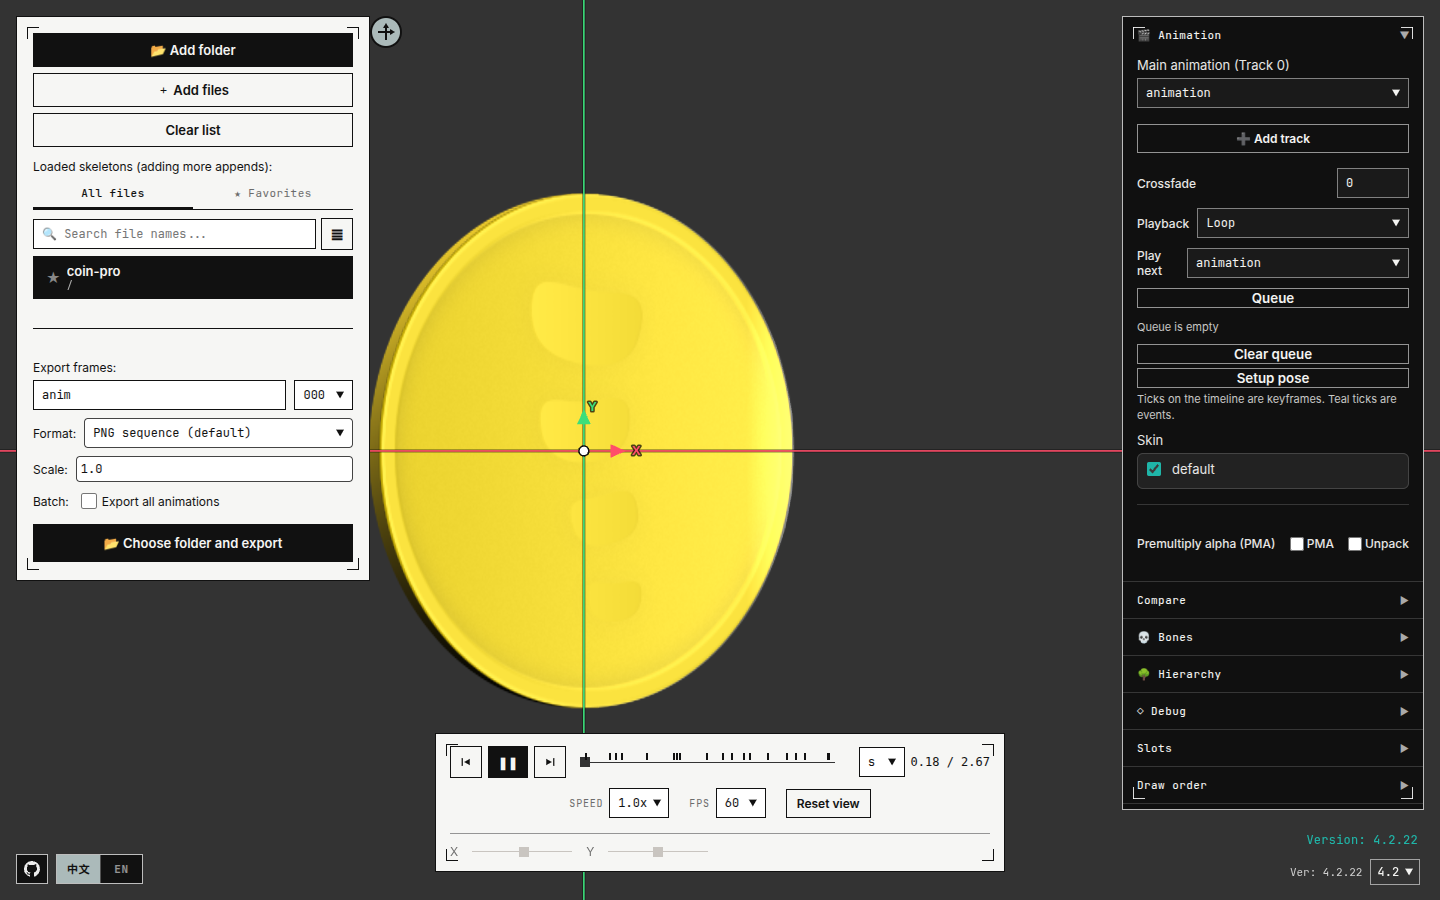
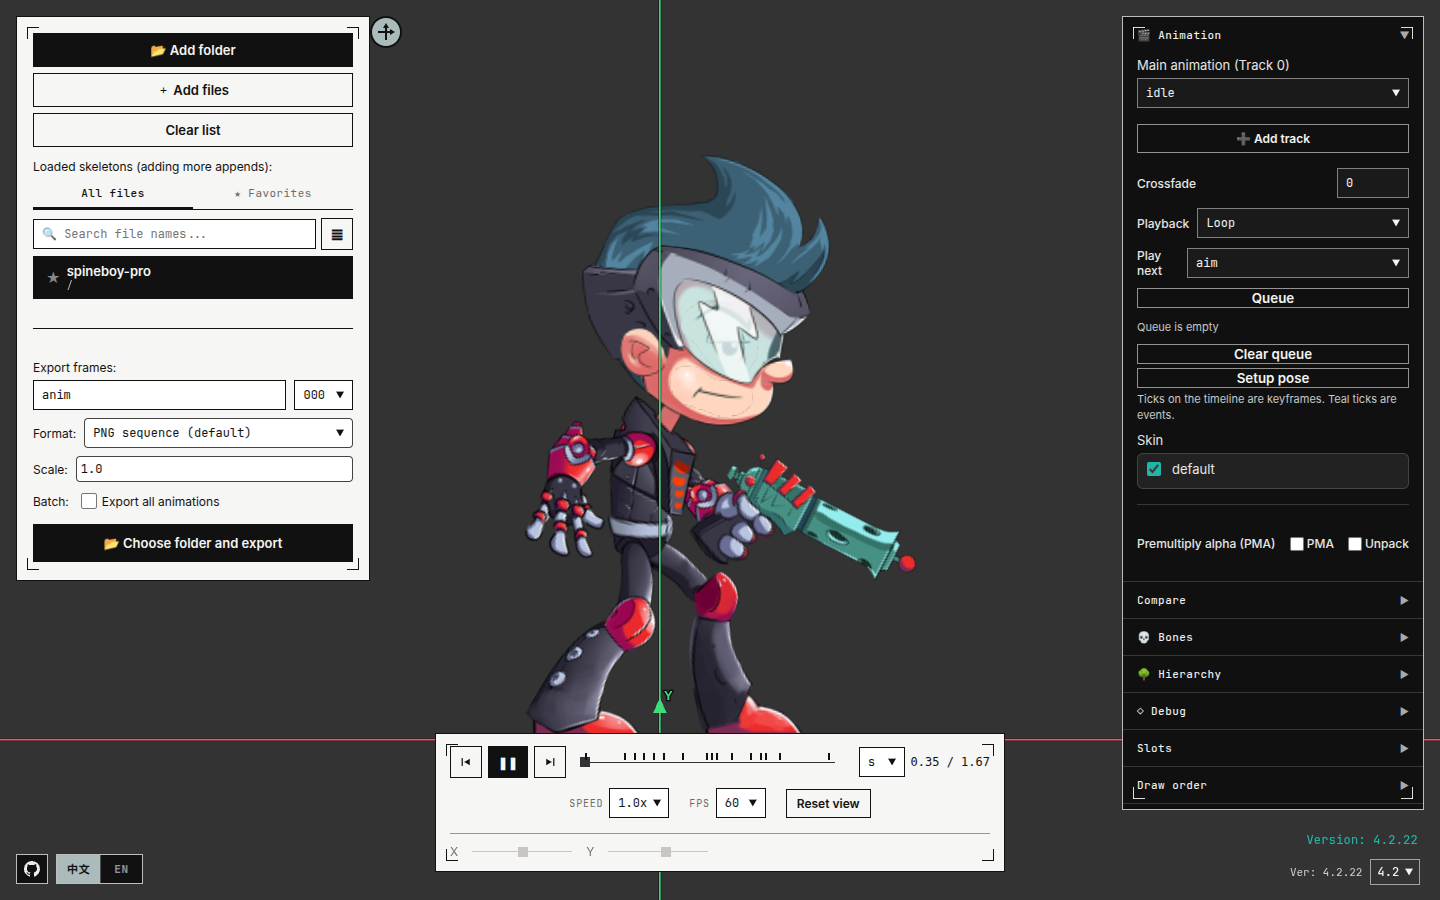
Replace README demo screenshots with spineboy (#21)
The coin sample read as a plain yellow disc. Use the official spineboy idle pose for the same home, main, and hierarchy views in each language.

diff --git a/README.en.md b/README.en.md
@@ -11,7 +11,7 @@ The runtimes are not the old `spine-webgl-*.js` files dropped in from a previous
 
 ## Interface preview
 
-The page as it looks locally, with the English UI. The skeleton on the stage is the official Spine coin example. **中文 | EN** at the bottom-left switches the language. The Chinese UI is in [README.md](./README.md).
+The page as it looks locally, with the English UI. The skeleton on the stage is the official Spine character spineboy, playing idle. **中文 | EN** at the bottom-left switches the language. The Chinese UI is in [README.md](./README.md).
 
 **Start page.** Click “Open animation folder” and choose the directory that contains the skeleton, atlas, and textures.
 

diff --git a/README.md b/README.md
@@ -11,7 +11,7 @@
 
 ## 界面预览
 
-下面是本地打开后的中文界面（默认语言）。画面里的骨架是 Spine 官方示例 coin。左下角的 **中文 | EN** 可切到英文，对应截图在 [README.en.md](./README.en.md)。
+下面是本地打开后的中文界面（默认语言）。画面里的骨架是 Spine 官方角色示例 spineboy，正在播放 idle。左下角的 **中文 | EN** 可切到英文，对应截图在 [README.en.md](./README.en.md)。
 
 **开始页。** 点「打开动画文件夹」，选中包含骨架、图集和贴图的目录。
 
